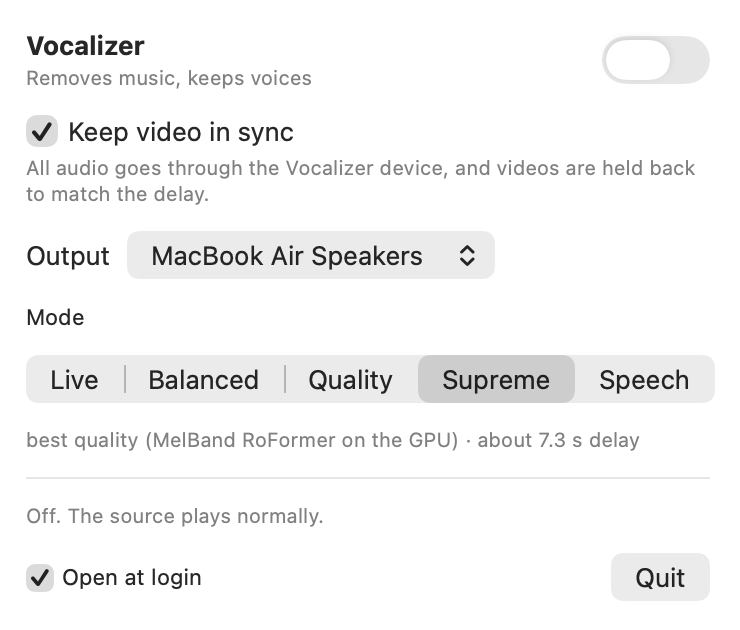
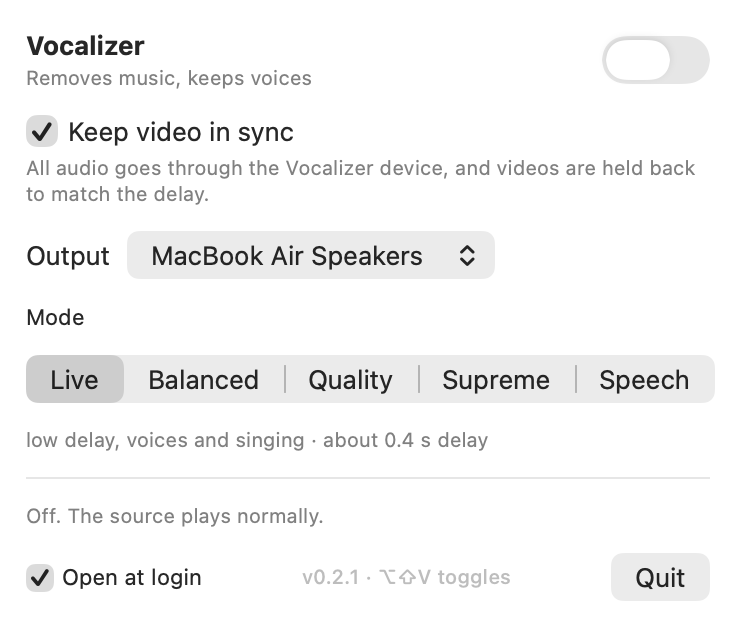
Polish: Option-Shift-V shortcut, welcome window, update check, version in menu
- global shortcut toggles Vocalizer (Carbon hot key, no Accessibility permission)
- first-launch window: menu bar icon, System Audio Recording, audio device, shortcut, open at login
- daily check of the latest GitHub release; Update runs the installer and reopens the app
- diagnostic runs (--snapshot, --sync-run, ...) no longer change saved settings or the audio routing
- verified video sync with Supreme's 7.2 s delay in Chrome and AVPlayer
- version 0.2.1

Changed region(s): [[0.0311, 0.5429, 0.8703, 0.7238], [0.0311, 0.5429, 0.1865, 0.6635], [0.4041, 0.9048, 0.6838, 0.9349]]

diff --git a/Sources/VocalizerMac/WelcomeWindow.swift b/Sources/VocalizerMac/WelcomeWindow.swift
@@ -1,0 +1,76 @@
+// First-launch window: where the app lives, the two permissions, and the shortcut.
+import AppKit
+import SwiftUI
+
+@MainActor
+enum WelcomeWindow {
+    private static var window: NSWindow?
+
+    static func showIfFirstLaunch(model: AppModel) {
+        guard !AppModel.testing, !UserDefaults.standard.bool(forKey: "welcomed") else { return }
+        show(model: model)
+    }
+
+    static func show(model: AppModel) {
+        let view = WelcomeView(model: model) {
+            UserDefaults.standard.set(true, forKey: "welcomed")
+            window?.close(); window = nil
+        }
+        let w = NSWindow(contentRect: NSRect(x: 0, y: 0, width: 460, height: 400), styleMask: [.titled, .closable],
+                         backing: .buffered, defer: false)
+        w.title = "Welcome to Vocalizer"
+        w.contentView = NSHostingView(rootView: view)
+        w.isReleasedWhenClosed = false
+        w.center()
+        window = w
+        NSApp.activate(ignoringOtherApps: true)
+        w.makeKeyAndOrderFront(nil)
+    }
+}
+
+struct WelcomeView: View {
+    @ObservedObject var model: AppModel
+    let done: () -> Void
+
+    var body: some View {
+        VStack(alignment: .leading, spacing: 16) {
+            HStack(spacing: 14) {
+                Image(nsImage: NSApp.applicationIconImage).resizable().frame(width: 56, height: 56)
+                VStack(alignment: .leading, spacing: 2) {
+                    Text("Vocalizer").font(.title2.bold())
+                    Text("Removes the music from anything your Mac plays. Keeps the voices.").foregroundStyle(.secondary)
+                        .fixedSize(horizontal: false, vertical: true)
+                }
+            }
+            step("1", "Find it in the menu bar", "Click the microphone icon at the top right of your screen and flip the switch.")
+            step("2", "Allow System Audio Recording", "The first time, macOS asks. Click Allow. Audio never leaves your Mac.")
+            if model.driverInstalled {
+                step("3", "Video stays in sync", "The Vocalizer audio device is installed, so videos wait for the voice.")
+            } else {
+                VStack(alignment: .leading, spacing: 6) {
+                    step("3", "Keep video in sync (recommended)", "Installs a small audio device so videos wait for the voice. Asks for your password once.")
+                    Button("Install the audio device…") { model.installDriver() }.padding(.leading, 34)
+                }
+            }
+            step("4", "Shortcut ⌥⇧V", "Press Option-Shift-V anywhere to switch Vocalizer on or off.")
+            Spacer()
+            HStack {
+                Toggle("Open at login", isOn: $model.openAtLogin)
+                Spacer()
+                Button("Got it", action: done).keyboardShortcut(.defaultAction)
+            }
+        }
+        .padding(22)
+        .frame(width: 460, height: 400)
+    }
+
+    private func step(_ n: String, _ title: String, _ text: String) -> some View {
+        HStack(alignment: .top, spacing: 12) {
+            Text(n).font(.caption.bold()).frame(width: 22, height: 22).background(Circle().fill(Color.accentColor.opacity(0.18)))
+            VStack(alignment: .leading, spacing: 2) {
+                Text(title).font(.headline)
+                Text(text).font(.callout).foregroundStyle(.secondary).fixedSize(horizontal: false, vertical: true)
+            }
+        }
+    }
+}

diff --git a/Sources/VocalizerMac/AppModel.swift b/Sources/VocalizerMac/AppModel.swift
@@ -61,10 +61,12 @@ final class AppModel: ObservableObject {
         didSet {
             if enabled != oldValue { apply() }
             // Remember it, so it comes back on after a restart (with Open at login).
-            if !restoring { UserDefaults.standard.set(enabled, forKey: "wasOn") }
+            if !restoring && !AppModel.testing { UserDefaults.standard.set(enabled, forKey: "wasOn") }
         }
     }
     private var restoring = false
+    /// Diagnostic runs (--selftest, --snapshot, ...) must not change the user's saved settings.
+    nonisolated static let testing = CommandLine.arguments.contains { $0.hasPrefix("--") }
     @Published var openAtLogin = SMAppService.mainApp.status == .enabled {
         didSet {
             guard openAtLogin != oldValue else { return }
@@ -86,7 +88,7 @@ final class AppModel: ObservableObject {
     /// hold the picture back by the same amount (lip sync).
     @Published var syncVideo = UserDefaults.standard.object(forKey: "syncVideo") as? Bool ?? true {
         didSet {
-            UserDefaults.standard.set(syncVideo, forKey: "syncVideo")
+            if !AppModel.testing { UserDefaults.standard.set(syncVideo, forKey: "syncVideo") }
             if syncVideo != oldValue, enabled { apply() }
         }
     }
@@ -159,8 +161,7 @@ final class AppModel: ObservableObject {
                     self.ready = true
                     self.status = "Ready"
                     // Resume where the user left off (not in the test modes, which drive `enabled` themselves).
-                    let testing = CommandLine.arguments.contains { $0.hasPrefix("--") }
-                    if !testing && UserDefaults.standard.bool(forKey: "wasOn") {
+                    if !AppModel.testing && UserDefaults.standard.bool(forKey: "wasOn") {
                         self.restoring = true
                         self.enabled = true
                         self.restoring = false
@@ -183,9 +184,19 @@ final class AppModel: ObservableObject {
         AudioObjectAddPropertyListenerBlock(AudioObjectID(kAudioObjectSystemObject), &addr, .main, block)
 
         // If we quit or crashed while routing through the Vocalizer device, give the speakers back.
-        restoreRealOutput()
+        // (Not in diagnostic runs: the real app may be running and routing right now.)
+        if !AppModel.testing { restoreRealOutput() }
         installSignalHandlers()
         startWatchdog()
+        if !AppModel.testing {
+            hotKey = HotKey { [weak self] in
+                guard let self, self.ready else { return }
+                self.enabled.toggle()
+            }
+            updaterSink = updater.objectWillChange.sink { [weak self] _ in self?.objectWillChange.send() }
+            updater.checkSoon()
+            DispatchQueue.main.async { WelcomeWindow.showIfFirstLaunch(model: self) }
+        }
 
         // Volume keys / mute act on the Vocalizer device while routed: pass them on to the real speakers.
         for sel in [kAudioDevicePropertyVolumeScalar, kAudioDevicePropertyMute] {
@@ -214,6 +225,9 @@ final class AppModel: ObservableObject {
     }
 
     private var listeners: [AudioObjectPropertyListenerBlock] = []
+    private var hotKey: HotKey?
+    let updater = Updater()
+    private var updaterSink: AnyCancellable?
     private var activeRealUID: String?
 
     // MARK: volume pass-through (sync mode)

diff --git a/Sources/VocalizerMac/Updater.swift b/Sources/VocalizerMac/Updater.swift
@@ -1,0 +1,50 @@
+// Checks GitHub for a newer release once a day; "Update" runs the same one-line installer as the README.
+import Foundation
+
+@MainActor
+final class Updater: ObservableObject {
+    static let repo = "0xArx/vocalizer-mac"
+    @Published private(set) var latest: String?
+    @Published private(set) var updating = false
+    let current = Bundle.main.object(forInfoDictionaryKey: "CFBundleShortVersionString") as? String ?? "0"
+
+    var updateAvailable: Bool { latest.map { Self.isNewer($0, than: current) } ?? false }
+
+    func checkSoon() {
+        guard !CommandLine.arguments.contains(where: { $0.hasPrefix("--") }) else { return }
+        let last = UserDefaults.standard.double(forKey: "lastUpdateCheck")
+        guard Date().timeIntervalSince1970 - last > 20 * 3600 else {
+            latest = UserDefaults.standard.string(forKey: "latestVersion"); return
+        }
+        var req = URLRequest(url: URL(string: "https://api.github.com/repos/\(Self.repo)/releases/latest")!)
+        req.setValue("application/vnd.github+json", forHTTPHeaderField: "Accept")
+        URLSession.shared.dataTask(with: req) { data, _, _ in
+            guard let data, let json = try? JSONSerialization.jsonObject(with: data) as? [String: Any],
+                  let tag = json["tag_name"] as? String else { return }
+            let version = tag.hasPrefix("v") ? String(tag.dropFirst()) : tag
+            DispatchQueue.main.async {
+                UserDefaults.standard.set(Date().timeIntervalSince1970, forKey: "lastUpdateCheck")
+                UserDefaults.standard.set(version, forKey: "latestVersion")
+                self.latest = version
+            }
+        }.resume()
+    }
+
+    /// Runs install.sh detached: it quits this app (which restores the speakers), installs, and reopens it.
+    func update() {
+        updating = true
+        let p = Process()
+        p.executableURL = URL(fileURLWithPath: "/bin/bash")
+        p.arguments = ["-c", "curl -fsSL https://raw.githubusercontent.com/\(Self.repo)/main/install.sh | bash > /tmp/vocalizer-update.log 2>&1"]
+        do { try p.run() } catch { updating = false }
+    }
+
+    static func isNewer(_ a: String, than b: String) -> Bool {
+        let x = a.split(separator: ".").map { Int($0) ?? 0 }, y = b.split(separator: ".").map { Int($0) ?? 0 }
+        for i in 0..<max(x.count, y.count) {
+            let p = i < x.count ? x[i] : 0, q = i < y.count ? y[i] : 0
+            if p != q { return p > q }
+        }
+        return false
+    }
+}

diff --git a/Sources/VocalizerMac/main.swift b/Sources/VocalizerMac/main.swift
@@ -60,6 +60,32 @@ if args.contains("--download-supreme") {
     }
     RunLoop.main.run()
 }
+if let i = args.firstIndex(of: "--snapshot-welcome"), args.count > i + 1 {
+    let app = NSApplication.shared
+    app.setActivationPolicy(.accessory)
+    MainActor.assumeIsolated {
+        let model = AppModel()
+        let host = NSHostingView(rootView: WelcomeView(model: model) {})
+        host.frame = NSRect(x: 0, y: 0, width: 460, height: 400)
+        let win = NSWindow(contentRect: host.frame, styleMask: .borderless, backing: .buffered, defer: false)
+        win.contentView = host
+        win.setFrameOrigin(NSPoint(x: -10_000, y: -10_000))
+        win.orderFrontRegardless()
+        DispatchQueue.main.asyncAfter(deadline: .now() + 1) {
+            if let rep = host.bitmapImageRepForCachingDisplay(in: host.bounds) {
+                host.cacheDisplay(in: host.bounds, to: rep)
+                try? rep.representation(using: .png, properties: [:])?.write(to: URL(fileURLWithPath: args[i + 1]))
+            }
+            exit(0)
+        }
+    }
+    app.run()
+}
+if args.contains("--hotkey-check") {
+    let key = HotKey {}
+    print("Option-Shift-V: handler \(key.status.handler), registration \(key.status.key) (0 = ok)")
+    exit(key.status.handler == 0 && key.status.key == 0 ? 0 : 1)
+}
 if args.contains("--list") {
     for s in AudioProcesses.list() { print("\(s.isPlaying ? "♪" : " ") \(s.name) [\(s.id)] pids \(s.pids)") }
     exit(0)

diff --git a/Sources/VocalizerMac/HotKey.swift b/Sources/VocalizerMac/HotKey.swift
@@ -1,0 +1,25 @@
+// Global keyboard shortcut (Carbon hot key: works without the Accessibility permission).
+import Carbon
+import Foundation
+
+final class HotKey {
+    private var ref: EventHotKeyRef?
+    private static var action: (() -> Void)?
+    /// OSStatus of installing the handler and registering the key (0 = ok); `--hotkey-check` prints it.
+    private(set) var status: (handler: OSStatus, key: OSStatus) = (-1, -1)
+
+    /// Default: Option-Shift-V, the same as the Vocalizer Chrome extension.
+    init(keyCode: UInt32 = UInt32(kVK_ANSI_V), modifiers: UInt32 = UInt32(optionKey | shiftKey), action: @escaping () -> Void) {
+        HotKey.action = action
+        var spec = EventTypeSpec(eventClass: OSType(kEventClassKeyboard), eventKind: UInt32(kEventHotKeyPressed))
+        let installed = InstallEventHandler(GetApplicationEventTarget(), { _, _, _ in
+            DispatchQueue.main.async { HotKey.action?() }
+            return noErr
+        }, 1, &spec, nil, nil)
+        let id = EventHotKeyID(signature: OSType(0x564F_434C), id: 1) // 'VOCL'
+        let registered = RegisterEventHotKey(keyCode, modifiers, id, GetApplicationEventTarget(), 0, &ref)
+        status = (installed, registered)
+    }
+
+    deinit { if let ref { UnregisterEventHotKey(ref) } }
+}

diff --git a/Sources/VocalizerMac/VocalizerApp.swift b/Sources/VocalizerMac/VocalizerApp.swift
@@ -86,8 +86,18 @@ struct MenuView: View {
             Divider()
             StatusView()
 
+            if model.updater.updateAvailable, let v = model.updater.latest {
+                HStack {
+                    Label("Vocalizer \(v) is available", systemImage: "arrow.down.circle").font(.caption)
+                    Spacer()
+                    Button(model.updater.updating ? "Updating…" : "Update") { model.updater.update() }
+                        .controlSize(.small).disabled(model.updater.updating)
+                }
+            }
             HStack {
                 Toggle("Open at login", isOn: $model.openAtLogin).controlSize(.small)
+                Spacer()
+                Text("v\(model.updater.current) · ⌥⇧V toggles").font(.caption2).foregroundStyle(.tertiary)
                 Spacer()
                 // Quitting keeps "on" remembered, so it resumes next launch.
                 Button("Quit") { NSApp.terminate(nil) }

diff --git a/README.md b/README.md
@@ -59,14 +59,18 @@ github.com/0xArx/vocalizer-mac". It follows [AGENTS.md](AGENTS.md). There is als
   Control Center shows **Vocalizer (your headphones)** so you can see where the sound really goes, and the
   **Output** picker in the Vocalizer menu switches it directly.
 - With sync off, you can pick a single app to filter (Source).
+- **⌥⇧V** (Option-Shift-V) switches it on or off from anywhere.
 - **Open at login** is in the menu; Vocalizer remembers whether it was on.
+- When a new version is out, the menu shows **Update**: one click runs the installer and reopens the app.
 - Things that can't wait (games, live calls) still hear the delay. Use Speech mode for calls.
+- Video sync is verified for long delays too: with Supreme's ~7.2 s, Chrome held the picture for 7.1 s and Apple's
+  player (Safari, QuickTime, TV) for 7.4 s before playing, then played smoothly.
 
 ## Privacy
 
-Everything runs locally. Audio is never recorded to disk or sent anywhere. The only network request the app
-ever makes is the one-time download of the Supreme model from this repo's GitHub release, when you click
-**Download** in Supreme mode.
+Everything runs locally. Audio is never recorded to disk or sent anywhere. The app makes only two kinds of
+network requests, both to GitHub: a version check once a day (the latest release number), and the one-time
+download of the Supreme model when you click **Download** in Supreme mode.
 
 ## How it works
 
@@ -215,6 +219,7 @@ Tested on this Mac (MacBook Air, USB speakers + built-in speakers):
 | Volume keys / mute, sync on | ✅ passed through to the real speakers (software gain if they have no volume control) |
 | Switching speakers while playing | ✅ follows (USB ↔ built-in), no dropouts |
 | Speakers unplugged | moves to the next output (logic tested by switching; not physically unplugged) |
+| Supreme (~7.2 s) video sync | ✅ Chrome `outputLatency` 7208 ms, picture waits 7.1 s; AVPlayer waits 7.4 s (0.25 s on plain speakers) |
 | Force quit / crash | ✅ speakers restored as the default output: signal handler, a watchdog process for `kill -9` / crashes (tested), and a check at launch |
 | Mono or multichannel outputs | uses the device's preferred stereo pair, mono gets (L+R)/2 (stereo verified; others by code) |
 | Sleep / wake | restarts the pipeline on wake (not tested here) |
